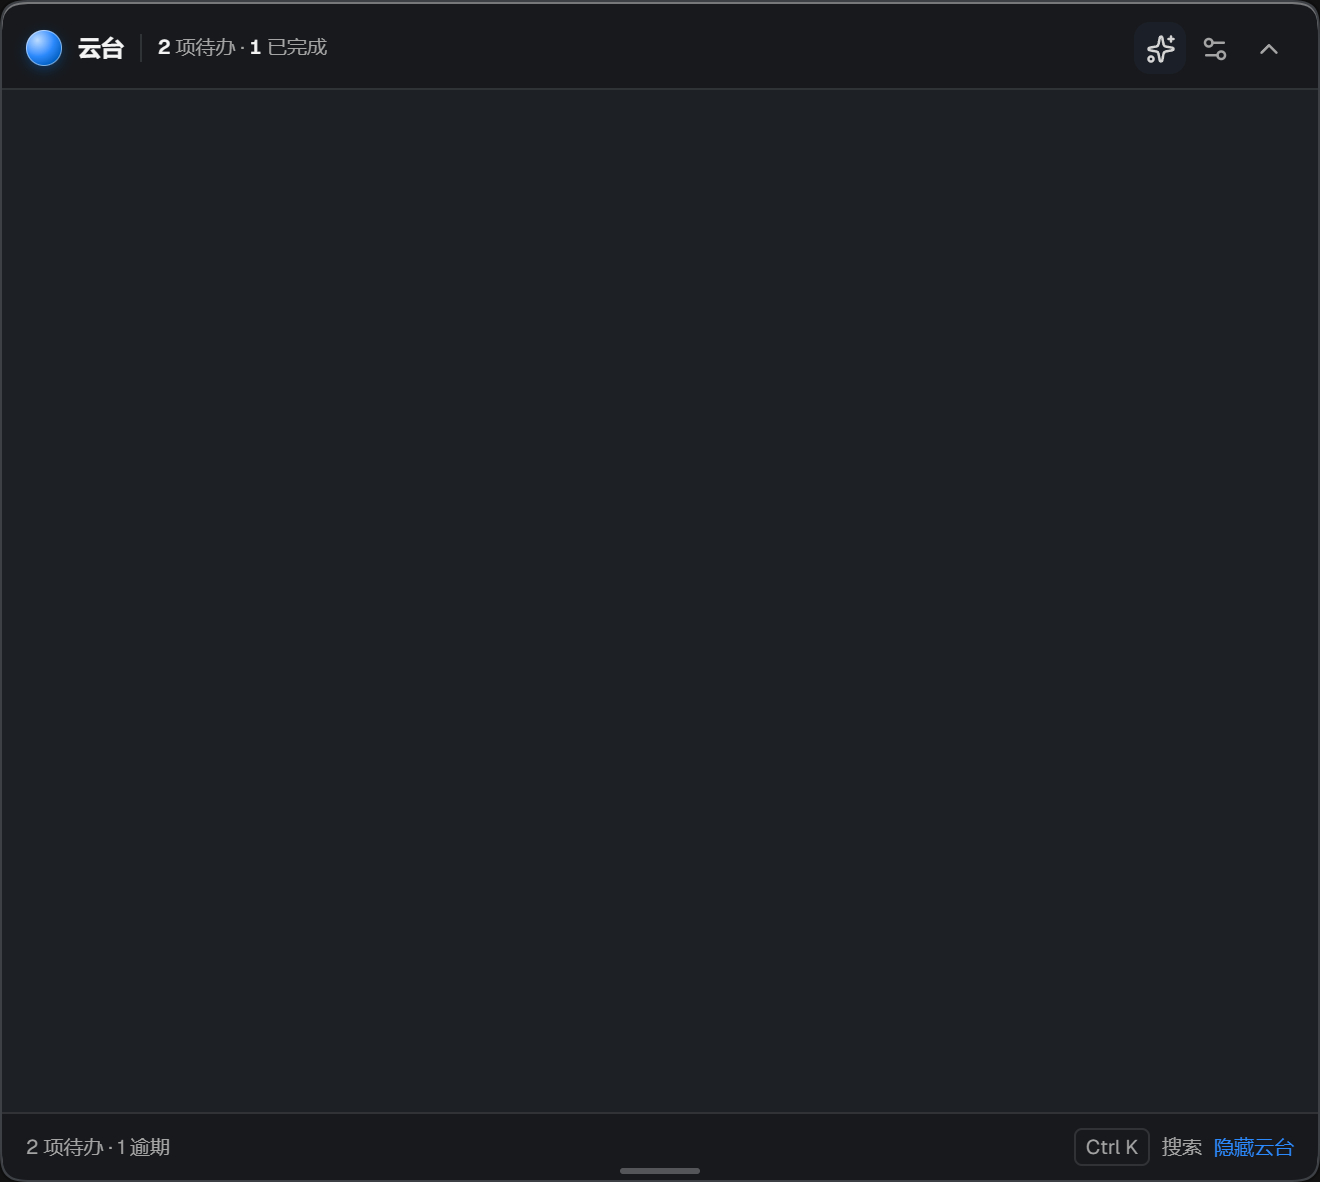
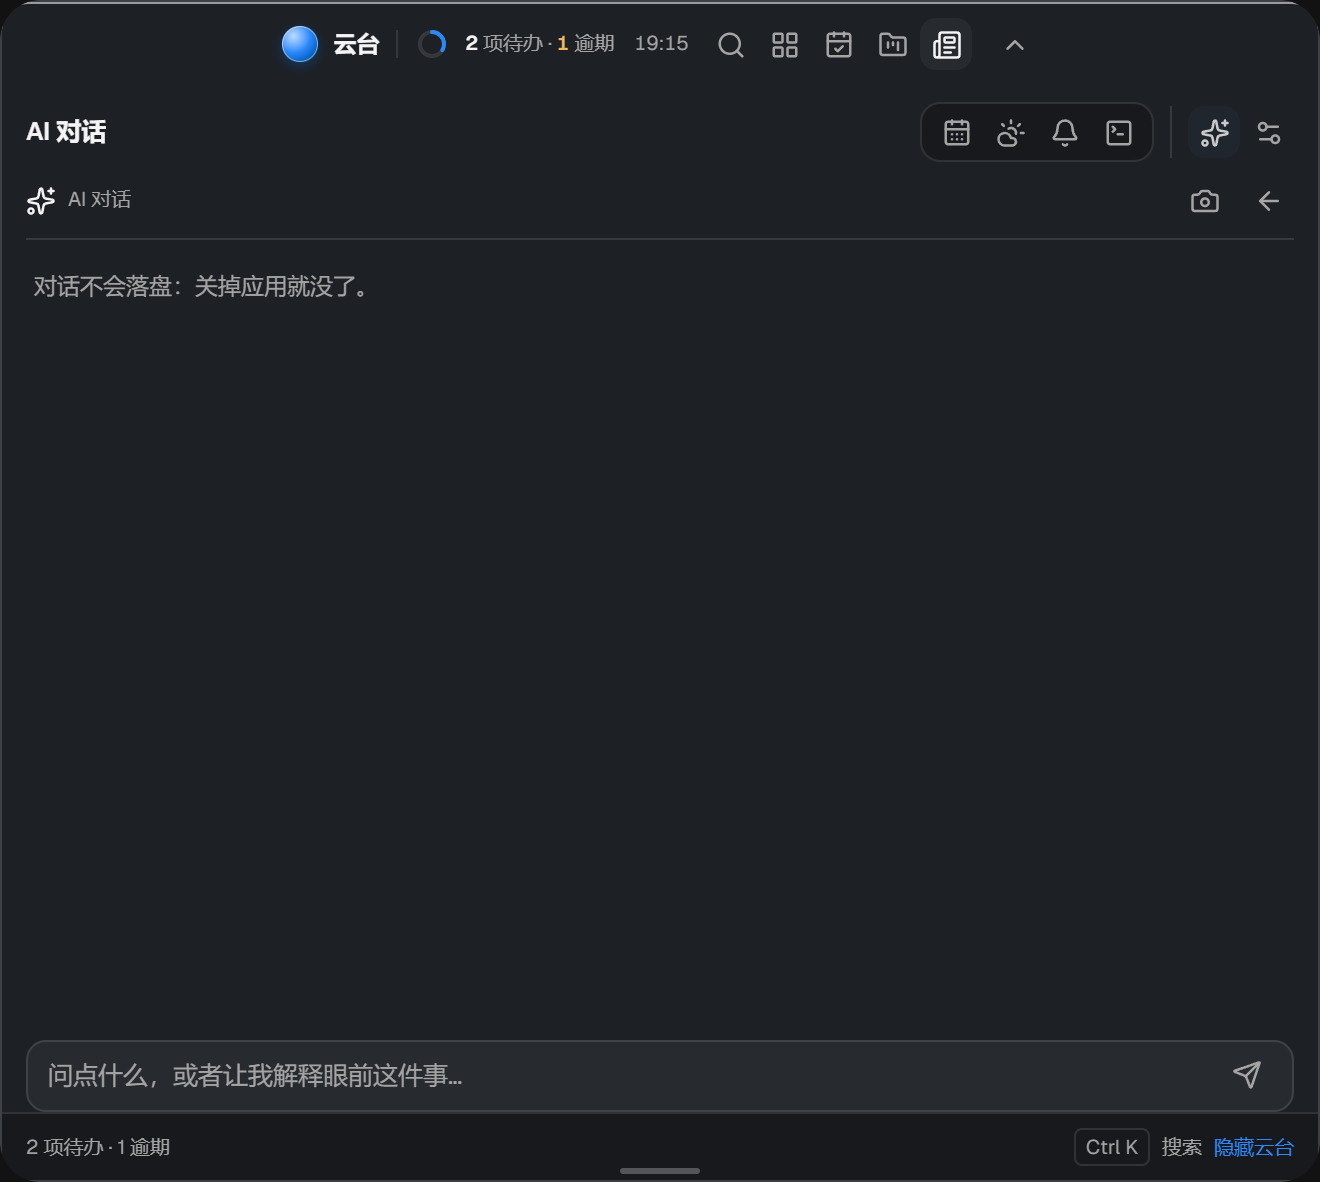
feat(桌面Dock)：展开只放大外壳，464×44 中心栏与图标原地不动

diff --git a/src/features/desktop/dock-float.tsx b/src/features/desktop/dock-float.tsx
@@ -292,132 +292,105 @@ export function DockFloat({ onExpand, onHide, panels }: {
           <span className="df-quick">
             {QUICK_TABS.filter(({ key }) => PRIMARY_TABS.includes(key)).map(({ key, icon: Icon }) => (
               <button key={key} type="button" className="df-quick-btn" title={t(`dockFloat.tab.${key}`)}
-                aria-label={t(`dockFloat.tab.${key}`)}
-                onClick={() => { setTab(key); setExpanded(true); }}>
+                aria-label={t(`dockFloat.tab.${key}`)} aria-pressed={tab === key}
+                onClick={() => { setTab(key); if (!open) setExpanded(true); }}>
                 <Icon className="df-icon" aria-hidden="true" />
               </button>
             ))}
           </span>
-          <button type="button" className="df-expand" title={t("dockFloat.expand")} aria-label={t("dockFloat.expand")}
-            onClick={() => setExpanded(true)}>
-            <ChevronDown className="df-icon" aria-hidden="true" />
+          <button type="button" className="df-expand"
+            title={open ? t("dockFloat.collapse") : t("dockFloat.expand")}
+            aria-label={open ? t("dockFloat.collapse") : t("dockFloat.expand")}
+            onClick={() => setExpanded(!open)}>
+            <ChevronDown className={open ? "df-icon is-flip" : "df-icon"} aria-hidden="true" />
           </button>
         </div>
       )}
 
       {mounted && (
         <div className="df-card">
-          <div className="df-head" data-card-drag
-            onPointerDown={(event) => {
-              // 头部空白处按住就能拖动整张卡片；按钮照常点击
-              if (event.button !== 0 || (event.target as HTMLElement).closest("button")) return;
-              const win = getCurrentWebviewWindow();
-              void (async () => {
-                await win.startDragging();
-                const pos = await win.outerPosition();
-                const monitor = await import("@tauri-apps/api/window").then((m) => m.currentMonitor());
-                useSettings.getState().setDockFloatX(pos.x / (monitor?.scaleFactor ?? 1));
-              })().catch(() => undefined);
-            }}>
-            <span className="df-brand">
-              <span className="df-orb" aria-hidden="true" />
-              <span className="df-name">{t("dockFloat.title")}</span>
-              <span className="df-sep" aria-hidden="true" />
-              <span className="df-stat">
-                <b>{summary.todo}</b> {t("dockFloat.todoUnit")} · <b>{summary.done}</b> {t("dockFloat.doneUnit")}
+          <div className="df-card-content">
+            {/* 工具与设置只在展开态出现；顶部的 5 个主图标始终留在胶囊栏里不动 */}
+            <div className="df-toolbar">
+              <span className="df-page-title">
+                {chatOpen ? t("dockFloat.chatTitle") : t(`dockFloat.tab.${tab}`)}
               </span>
-            </span>
-            <span className="df-tools" role="group" aria-label={t("dockFloat.tools")}>
-              {/* 二级功能：只放图标，点开在卡片里就地显示 —— 省掉一整行标签 */}
-              {TOOL_TABS.map(({ key, icon: Icon }) => (
-                <button key={key} type="button" className="df-icon-btn" title={t(`dockFloat.tab.${key}`)}
-                  aria-label={t(`dockFloat.tab.${key}`)} aria-pressed={tab === key}
-                  onClick={() => setTab(key)}>
-                  <Icon className="df-icon" aria-hidden="true" />
+              <span className="df-sp" />
+              <span className="df-tools" role="group" aria-label={t("dockFloat.tools")}>
+                {TOOL_TABS.map(({ key, icon: Icon }) => (
+                  <button key={key} type="button" className="df-icon-btn" title={t(`dockFloat.tab.${key}`)}
+                    aria-label={t(`dockFloat.tab.${key}`)} aria-pressed={tab === key}
+                    onClick={() => setTab(key)}>
+                    <Icon className="df-icon" aria-hidden="true" />
+                  </button>
+                ))}
+              </span>
+              <span className="df-window-actions">
+                <button type="button" className="df-icon-btn" title={t("dockFloat.chatTitle")}
+                  aria-label={t("dockFloat.chatTitle")} aria-pressed={chatOpen}
+                  onClick={() => setChatOpen((value) => !value)}>
+                  <Sparkles className="df-icon" aria-hidden="true" />
                 </button>
-              ))}
-            </span>
-            <span className="df-window-actions">
-              <button type="button" className="df-icon-btn" title={t("dockFloat.chatTitle")}
-                aria-label={t("dockFloat.chatTitle")} aria-pressed={chatOpen}
-                onClick={() => setChatOpen((value) => !value)}>
-                <Sparkles className="df-icon" aria-hidden="true" />
-              </button>
-              <button type="button" className="df-icon-btn" title={t("dockFloat.settings")}
-                aria-label={t("dockFloat.settings")}
-                onClick={() => invoke("desktop_open_main", { route: "/settings" }).catch(report)}>
-                <Settings2 className="df-icon" aria-hidden="true" />
-              </button>
-              <button type="button" className="df-icon-btn" title={t("dockFloat.collapse")}
-                aria-label={t("dockFloat.collapse")} onClick={() => setExpanded(false)}>
-                <ChevronDown className="df-icon is-flip" aria-hidden="true" />
-              </button>
-            </span>
-          </div>
+                <button type="button" className="df-icon-btn" title={t("dockFloat.settings")}
+                  aria-label={t("dockFloat.settings")}
+                  onClick={() => invoke("desktop_open_main", { route: "/settings" }).catch(report)}>
+                  <Settings2 className="df-icon" aria-hidden="true" />
+                </button>
+              </span>
+            </div>
 
-          {chatOpen ? (
-            <div className="df-body"><ChatPanel onClose={() => setChatOpen(false)} /></div>
-          ) : (
-          <>
-          <div className="df-tabs" role="tablist" aria-label={t("dockFloat.title")}>
-            {QUICK_TABS.filter(({ key }) => PRIMARY_TABS.includes(key)).map(({ key, icon: Icon }) => (
-              <button key={key} type="button" role="tab" aria-selected={tab === key}
-                className="df-tab" onClick={() => setTab(key)}>
-                <Icon className="df-icon" aria-hidden="true" />
-                <span className="df-tab-label">{t(`dockFloat.tab.${key}`)}</span>
-              </button>
-            ))}
-          </div>
-
-          <div className="df-body">
-            {tab === "search" && <SearchPanel />}
-            {tab === "fences" && <div className="df-host">{panels.fences}</div>}
-            {tab === "plans" && <div className="df-host">{panels.plans}</div>}
-            {tab === "projects" && <div className="df-host">{panels.projects}</div>}
-            {tab === "collect" && (
-              <div className="df-collect">{panels.capture}</div>
+            {chatOpen ? (
+              <div className="df-body"><ChatPanel onClose={() => setChatOpen(false)} /></div>
+            ) : (
+              <div className="df-body">
+                {tab === "search" && <SearchPanel />}
+                {tab === "fences" && <div className="df-host">{panels.fences}</div>}
+                {tab === "plans" && <div className="df-host">{panels.plans}</div>}
+                {tab === "projects" && <div className="df-host">{panels.projects}</div>}
+                {tab === "collect" && (
+                  <div className="df-collect">{panels.capture}</div>
+                )}
+                {tab === "news" && <NewsPanel />}
+                {tab === "cal" && <CalendarPanel />}
+                {tab === "chat" && <div className="df-body-inner"><ChatPanel onClose={() => setTab("search")} /></div>}
+                {tab === "weather" && <WeatherPanel />}
+                {tab === "notice" && <NoticePanel onOpenPlans={() => setTab("plans")} />}
+                {tab === "term" && <TerminalPanel />}
+              </div>
             )}
-            {tab === "news" && <NewsPanel />}
-            {tab === "cal" && <CalendarPanel />}
-            {tab === "chat" && <div className="df-body-inner"><ChatPanel onClose={() => setTab("search")} /></div>}
-            {tab === "weather" && <WeatherPanel />}
-            {tab === "notice" && <NoticePanel onOpenPlans={() => setTab("plans")} />}
-            {tab === "term" && <TerminalPanel />}
-          </div>
-          </>
-          )}
 
-          <div className="df-foot">
-            <span>{t("dockFloat.footSummary", { todo: summary.todo, late: summary.late })}</span>
-            <span className="df-sp" />
-            <kbd>Ctrl K</kbd>
-            <span>{t("dockFloat.footSearch")}</span>
-            <button type="button" className="df-link" onClick={onHide}>{t("dockFloat.hide")}</button>
+            <div className="df-foot">
+              <span>{t("dockFloat.footSummary", { todo: summary.todo, late: summary.late })}</span>
+              <span className="df-sp" />
+              <kbd>Ctrl K</kbd>
+              <span>{t("dockFloat.footSearch")}</span>
+              <button type="button" className="df-link" onClick={onHide}>{t("dockFloat.hide")}</button>
+            </div>
+            <div className="df-resize" role="separator" aria-orientation="horizontal"
+              aria-label={t("dockFloat.resize")}
+              onPointerDown={(event) => {
+                if (event.button !== 0) return;
+                event.preventDefault();
+                const startY = event.clientY;
+                const startH = useSettings.getState().dockCardHeight;
+                let frame = 0;
+                let next = startH;
+                const move = (ev: PointerEvent) => {
+                  next = Math.round(Math.min(900, Math.max(420, startH + (ev.clientY - startY))) / 10) * 10;
+                  document.documentElement.style.setProperty("--df-card-h", next + "px");
+                  // 窗口跟着长：rAF 合并，避免每个 pointermove 都打一次 IPC
+                  if (!frame) frame = requestAnimationFrame(() => { frame = 0; void onExpand(true, next).catch(report); });
+                };
+                const up = () => {
+                  window.removeEventListener("pointermove", move);
+                  window.removeEventListener("pointerup", up);
+                  useSettings.getState().setDockCardHeight(next);
+                  void onExpand(true, next).catch(report);
+                };
+                window.addEventListener("pointermove", move);
+                window.addEventListener("pointerup", up);
+              }} />
           </div>
-          <div className="df-resize" role="separator" aria-orientation="horizontal"
-            aria-label={t("dockFloat.resize")}
-            onPointerDown={(event) => {
-              if (event.button !== 0) return;
-              event.preventDefault();
-              const startY = event.clientY;
-              const startH = useSettings.getState().dockCardHeight;
-              let frame = 0;
-              let next = startH;
-              const move = (ev: PointerEvent) => {
-                next = Math.round(Math.min(900, Math.max(420, startH + (ev.clientY - startY))) / 10) * 10;
-                document.documentElement.style.setProperty("--df-card-h", next + "px");
-                // 窗口跟着长：rAF 合并，避免每个 pointermove 都打一次 IPC
-                if (!frame) frame = requestAnimationFrame(() => { frame = 0; void onExpand(true, next).catch(report); });
-              };
-              const up = () => {
-                window.removeEventListener("pointermove", move);
-                window.removeEventListener("pointerup", up);
-                useSettings.getState().setDockCardHeight(next);
-                void onExpand(true, next).catch(report);
-              };
-              window.addEventListener("pointermove", move);
-              window.addEventListener("pointerup", up);
-            }} />
         </div>
       )}
     </div>

diff --git a/src/features/desktop/dock-float.css b/src/features/desktop/dock-float.css
@@ -1083,3 +1083,54 @@
 .df-root[data-phase="resizing"] .df-card {
   pointer-events: none;
 }
+
+/* ── 一个不动的中心栏 + 会生长的外壳 ──────────────────────────────
+   胶囊内容是常驻层：展开时它不位移、不缩放、不换布局，只是外壳
+   （.df-card 的 clip）从 464×44 长到 660×591；卡片内容从中心栏下方淡入。 */
+.df-card { z-index: 1; }
+.df-capsule { z-index: 2; }
+.df-root[data-open="true"] .df-capsule {
+  opacity: 1 !important;
+  pointer-events: auto;
+  background: transparent;
+  border-color: transparent;
+  box-shadow: none;
+  -webkit-backdrop-filter: none;
+  backdrop-filter: none;
+}
+.df-quick-btn[aria-pressed="true"] {
+  background: var(--dock-face);
+  color: var(--foreground);
+}
+.df-card-content {
+  display: flex;
+  flex-direction: column;
+  height: 100%;
+  min-height: 0;
+  padding-top: 50px; /* 给顶部 44px 常驻栏 + 6px 呼吸 */
+  opacity: 0;
+  transition: opacity 120ms ease 70ms;
+}
+.df-root[data-phase="expanding"] .df-card-content,
+.df-root[data-phase="expanded"] .df-card-content,
+.df-root[data-phase="collapsing"] .df-card-content {
+  opacity: 1;
+}
+.df-toolbar {
+  display: flex;
+  flex: none;
+  align-items: center;
+  gap: 8px;
+  padding: 0 12px 6px;
+}
+.df-page-title {
+  min-width: 0;
+  overflow: hidden;
+  text-overflow: ellipsis;
+  white-space: nowrap;
+  color: var(--foreground);
+  font-size: var(--pr-text-sm);
+  font-weight: var(--pr-weight-semibold);
+}
+.df-toolbar .df-tools { padding: 1px 4px; }
+.df-toolbar .df-window-actions { padding-left: 8px; }
